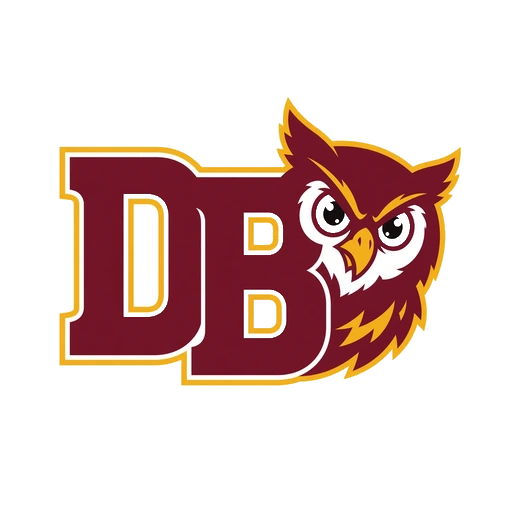
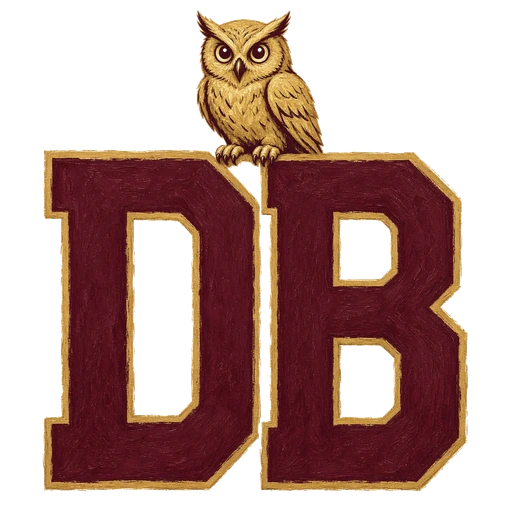
Restore Dunbar DC wave mark and give Baltimore Dunbar DB initials
Baltimore was inheriting DC's D because game details matched the shorter "Dunbar" name. Restore the wave crest/score mark for DC and use a maroon-gold DB + owl for Baltimore.

diff --git a/src/data/teamMascots.js b/src/data/teamMascots.js
@@ -154,8 +154,8 @@ export const teamMascots = {
   Coolidge: "/mascots/missing-teams/coolidge-colts-full.webp",
   "Coolidge High School": "/mascots/missing-teams/coolidge-colts-full.webp",
   "Calvin Coolidge": "/mascots/missing-teams/coolidge-colts-full.webp",
-  Dunbar: "/mascots/missing-teams/dunbar-crimson-tide-full.webp?v=identity-sheet-2",
-  "Dunbar High School": "/mascots/missing-teams/dunbar-crimson-tide-full.webp?v=identity-sheet-2",
+  Dunbar: "/mascots/missing-teams/dunbar-crimson-tide-full.webp?v=identity-sheet-3",
+  "Dunbar High School": "/mascots/missing-teams/dunbar-crimson-tide-full.webp?v=identity-sheet-3",
   "Dunbar (Baltimore)": "/mascots/missing-teams/dunbar-baltimore-poets-full.webp",
   "Dunbar (Balt)": "/mascots/missing-teams/dunbar-baltimore-poets-full.webp",
   "Baltimore Dunbar": "/mascots/missing-teams/dunbar-baltimore-poets-full.webp",
@@ -435,11 +435,11 @@ const scoreMascots = {
   Ballou: "/mascots/missing-teams/ballou-score-bk.webp",
   "Ballou High School": "/mascots/missing-teams/ballou-score-bk.webp",
   Bell: "/mascots/missing-teams/bell-score-b.webp",
-  Dunbar: "/mascots/missing-teams/dunbar-score-d.webp?v=identity-sheet-2",
-  "Dunbar High School": "/mascots/missing-teams/dunbar-score-d.webp?v=identity-sheet-2",
-  "Dunbar (Baltimore)": "/mascots/missing-teams/dunbar-baltimore-score-db.webp",
-  "Dunbar (Balt)": "/mascots/missing-teams/dunbar-baltimore-score-db.webp",
-  "Baltimore Dunbar": "/mascots/missing-teams/dunbar-baltimore-score-db.webp",
+  Dunbar: "/mascots/missing-teams/dunbar-score-d.webp?v=identity-sheet-3",
+  "Dunbar High School": "/mascots/missing-teams/dunbar-score-d.webp?v=identity-sheet-3",
+  "Dunbar (Baltimore)": "/mascots/missing-teams/dunbar-baltimore-score-db.webp?v=identity-sheet-2",
+  "Dunbar (Balt)": "/mascots/missing-teams/dunbar-baltimore-score-db.webp?v=identity-sheet-2",
+  "Baltimore Dunbar": "/mascots/missing-teams/dunbar-baltimore-score-db.webp?v=identity-sheet-2",
   Benedictine: "/mascots/benedictine-score-b.svg",
   Bullis: "/mascots/missing-teams/bullis-score-b.webp",
   "Bullis School": "/mascots/missing-teams/bullis-score-b.webp",
@@ -564,7 +564,7 @@ const standingsMascots = {
   Bell: "/mascots/standings/bell.png",
   Cardozo: "/mascots/standings/cardozo.png",
   Coolidge: "/mascots/standings/coolidge.png",
-  Dunbar: "/mascots/missing-teams/dunbar-score-d.webp?v=identity-sheet-2",
+  Dunbar: "/mascots/missing-teams/dunbar-score-d.webp?v=identity-sheet-3",
   Eastern: "/mascots/standings/eastern.png",
   "H.D. Woodson": "/mascots/standings/hd-woodson.png",
   "Jackson-Reed": "/mascots/standings/jackson-reed.png",

diff --git a/src/scoreMarkRecovery.js b/src/scoreMarkRecovery.js
@@ -3,8 +3,12 @@ const SCORE_MARKS = new Map([
   ["Bullis School", "/mascots/missing-teams/bullis-score-b.webp?v=identity-sheet-1"],
   ["Ballou", "/mascots/missing-teams/ballou-score-bk.webp?v=identity-sheet-1"],
   ["Ballou High School", "/mascots/missing-teams/ballou-score-bk.webp?v=identity-sheet-1"],
-  ["Dunbar", "/mascots/missing-teams/dunbar-score-d.webp?v=identity-sheet-2"],
-  ["Dunbar High School", "/mascots/missing-teams/dunbar-score-d.webp?v=identity-sheet-2"],
+  ["Dunbar (Baltimore)", "/mascots/missing-teams/dunbar-baltimore-score-db.webp?v=identity-sheet-2"],
+  ["Dunbar (Balt)", "/mascots/missing-teams/dunbar-baltimore-score-db.webp?v=identity-sheet-2"],
+  ["Baltimore Dunbar", "/mascots/missing-teams/dunbar-baltimore-score-db.webp?v=identity-sheet-2"],
+  ["Dunbar Baltimore", "/mascots/missing-teams/dunbar-baltimore-score-db.webp?v=identity-sheet-2"],
+  ["Dunbar", "/mascots/missing-teams/dunbar-score-d.webp?v=identity-sheet-3"],
+  ["Dunbar High School", "/mascots/missing-teams/dunbar-score-d.webp?v=identity-sheet-3"],
   ["Mt. Zion", "/mascots/missing-teams/mt-zion-score-mzp.webp?v=identity-sheet-1"],
   ["Mt. Zion Prep", "/mascots/missing-teams/mt-zion-score-mzp.webp?v=identity-sheet-1"],
   ["Mt. Zion Prep Academy", "/mascots/missing-teams/mt-zion-score-mzp.webp?v=identity-sheet-1"],
@@ -133,11 +137,18 @@ const recoverExistingScoreMarks = () => {
 
   document.querySelectorAll(".game-details-team").forEach((row) => {
     const text = row.textContent || "";
+    let bestName = "";
+    let bestSrc = null;
 
     for (const [teamName, src] of SCORE_MARKS) {
-      if (!text.includes(teamName)) continue;
-      installMark(row.querySelector(".game-details-team-logo"), teamName, src);
-      break;
+      if (text.includes(teamName) && teamName.length > bestName.length) {
+        bestName = teamName;
+        bestSrc = src;
+      }
+    }
+
+    if (bestSrc) {
+      installMark(row.querySelector(".game-details-team-logo"), bestName, bestSrc);
     }
   });
 };

diff --git a/src/components/ShareScoreLogo.jsx b/src/components/ShareScoreLogo.jsx
@@ -7,10 +7,10 @@ const SCORE_ART = {
   "Bullis School": "/mascots/missing-teams/bullis-score-b.webp",
   Ballou: "/mascots/missing-teams/ballou-score-bk.webp",
   "Ballou High School": "/mascots/missing-teams/ballou-score-bk.webp",
-  Dunbar: "/mascots/missing-teams/dunbar-score-d.webp?v=identity-sheet-2",
-  "Dunbar High School": "/mascots/missing-teams/dunbar-score-d.webp?v=identity-sheet-2",
-  "Dunbar (Baltimore)": "/mascots/missing-teams/dunbar-baltimore-score-db.webp",
-  "Dunbar (Balt)": "/mascots/missing-teams/dunbar-baltimore-score-db.webp",
+  Dunbar: "/mascots/missing-teams/dunbar-score-d.webp?v=identity-sheet-3",
+  "Dunbar High School": "/mascots/missing-teams/dunbar-score-d.webp?v=identity-sheet-3",
+  "Dunbar (Baltimore)": "/mascots/missing-teams/dunbar-baltimore-score-db.webp?v=identity-sheet-2",
+  "Dunbar (Balt)": "/mascots/missing-teams/dunbar-baltimore-score-db.webp?v=identity-sheet-2",
   "Mt. Zion": "/mascots/missing-teams/mt-zion-score-mzp.webp",
   "Mt. Zion Prep": "/mascots/missing-teams/mt-zion-score-mzp.webp",
   "Mt. Zion Prep Academy": "/mascots/missing-teams/mt-zion-score-mzp.webp",
